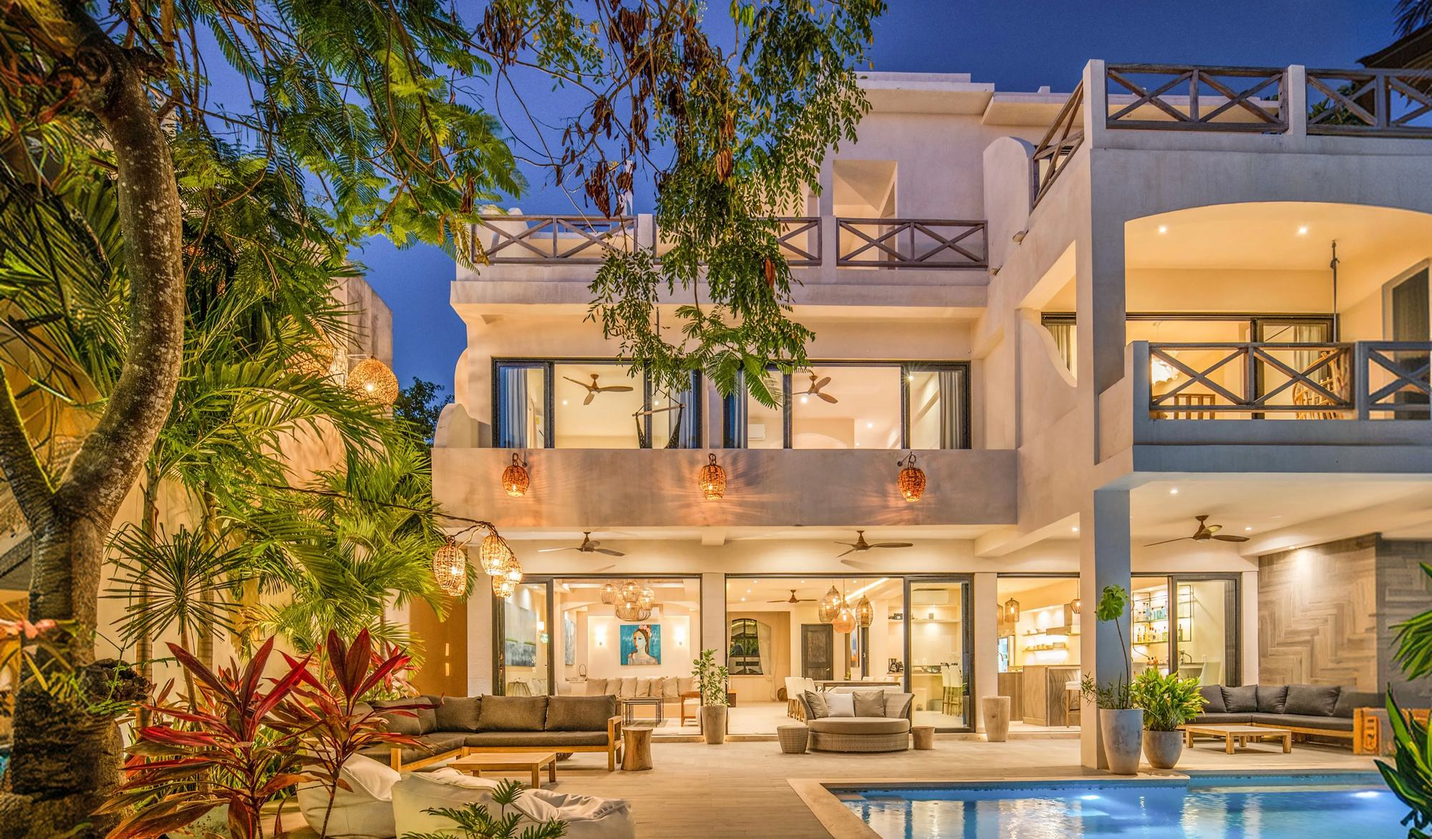
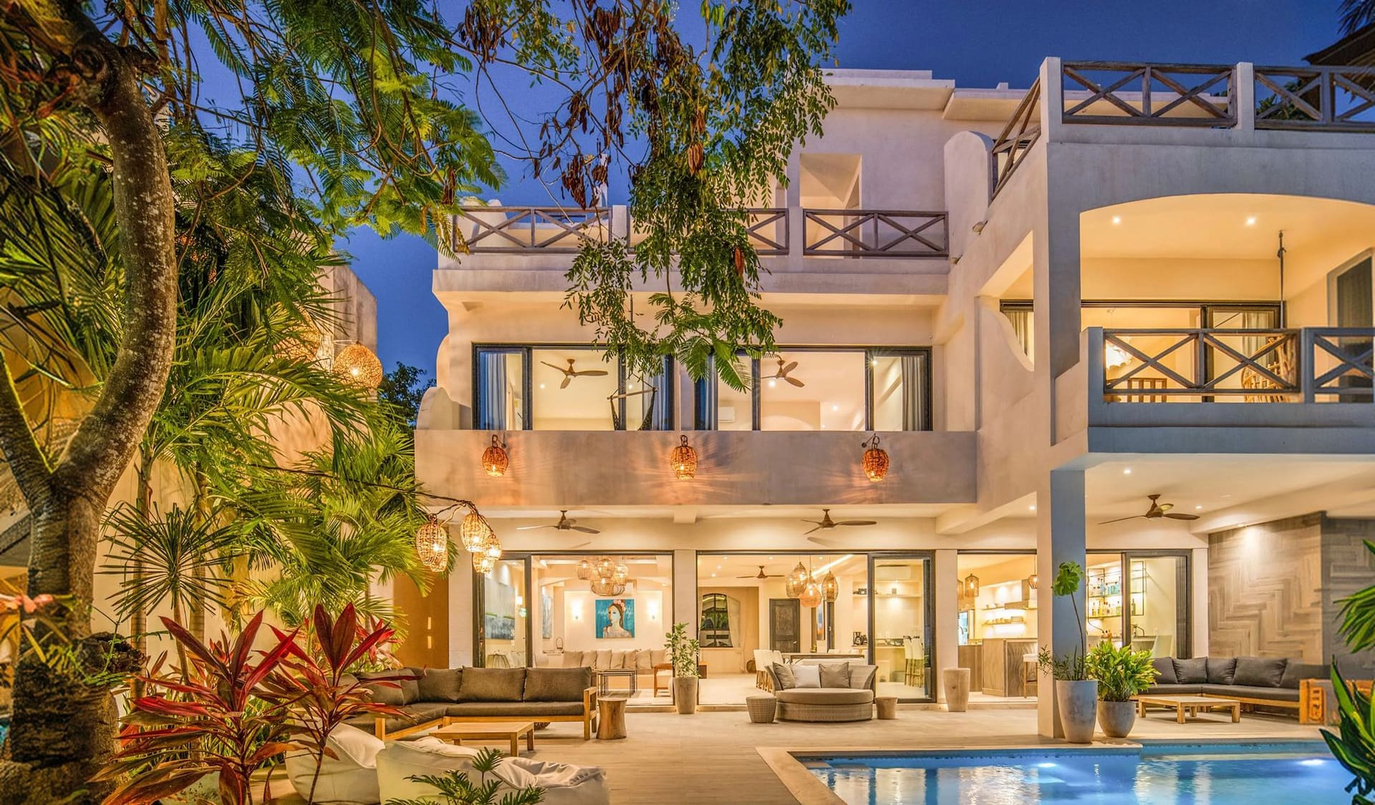
perf: optimizacion de imagenes y metadata real (anti peso muerto)
- metadata real en es-MX (SEO + OpenGraph) en vez del texto generico
  'Coco B Platform / Unified platform' que parecia placeholder
- footer-logo.png comprimido 359KB -> 18KB (-95%)
- portfolio-pool y villas-hero-night recomprimidos (mozjpeg, max 1920px)
- eliminadas ~14MB de imagenes muertas en public/media/figma que ya
  no usa ninguna pantalla (solo se conserva footer-logo.png)
- resultado: public/media de 22MB -> 7.7MB, contenedor mas ligero

diff --git a/src/app/layout.tsx b/src/app/layout.tsx
@@ -15,8 +15,27 @@ const raleway = Raleway({
 });
 
 export const metadata: Metadata = {
-  title: "Coco B Platform",
-  description: "Unified platform for villas and wellness retreats",
+  metadataBase: new URL("https://cocob-web.whitetree-e39b7f21.eastus2.azurecontainerapps.io"),
+  title: {
+    default: "Coco B Isla — Villas de lujo y retiros en Isla Mujeres",
+    template: "%s | Coco B Isla",
+  },
+  description:
+    "Villas privadas frente al mar, hoteles boutique y retiros de bienestar en la costa oeste de Isla Mujeres, a un ferry de Cancún. Bodas, yoga, wellness y experiencias a medida.",
+  keywords: [
+    "villas Isla Mujeres",
+    "retiros de yoga México",
+    "villa de lujo Caribe",
+    "bodas Isla Mujeres",
+    "Coco B Isla",
+  ],
+  openGraph: {
+    title: "Coco B Isla — Villas de lujo y retiros en Isla Mujeres",
+    description:
+      "Villas privadas frente al mar y retiros de bienestar en Isla Mujeres, México. Servicio excepcional para experiencias excepcionales.",
+    locale: "es_MX",
+    type: "website",
+  },
 };
 
 export default function RootLayout({
